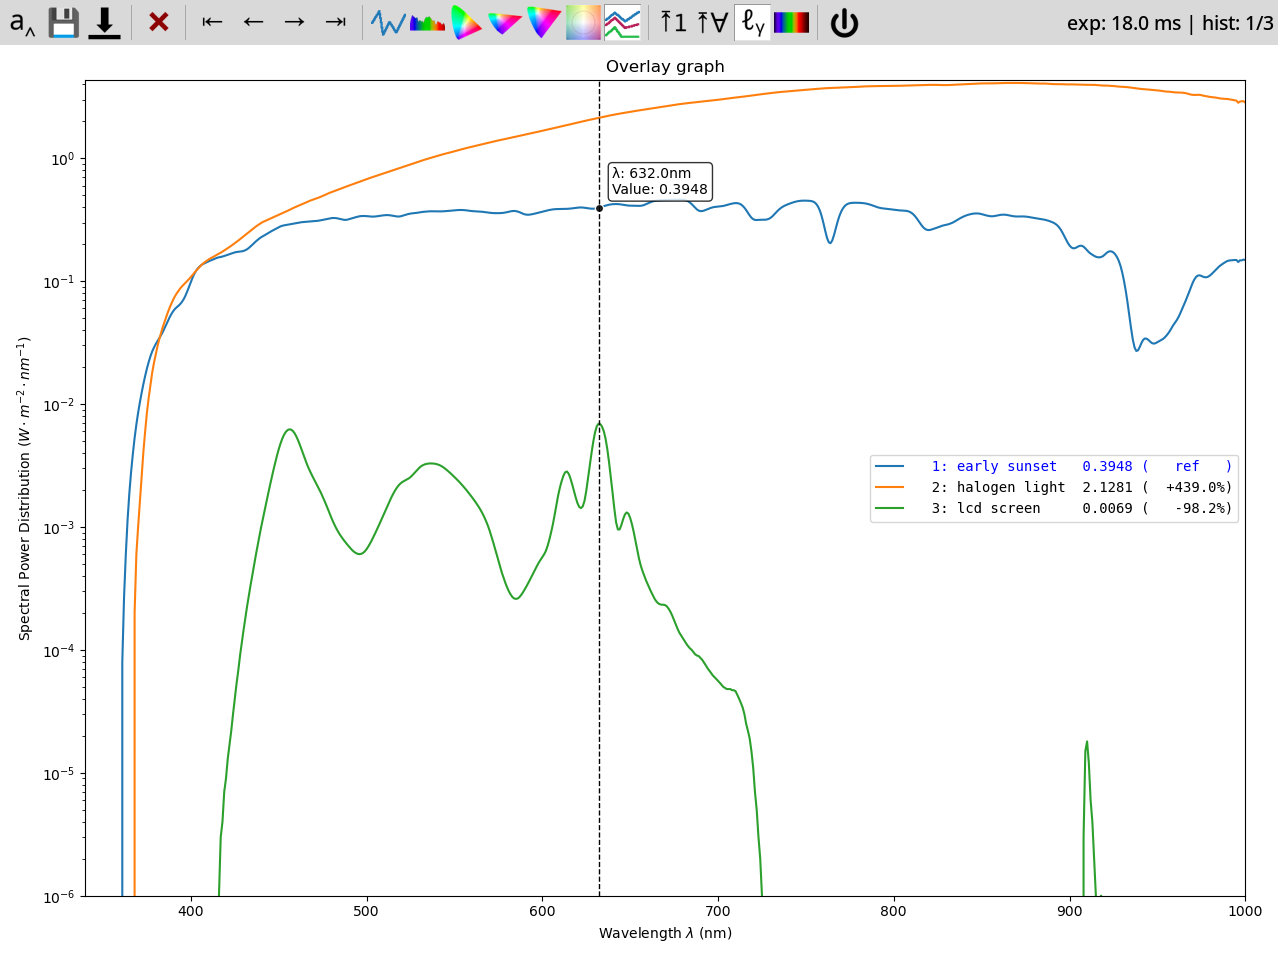
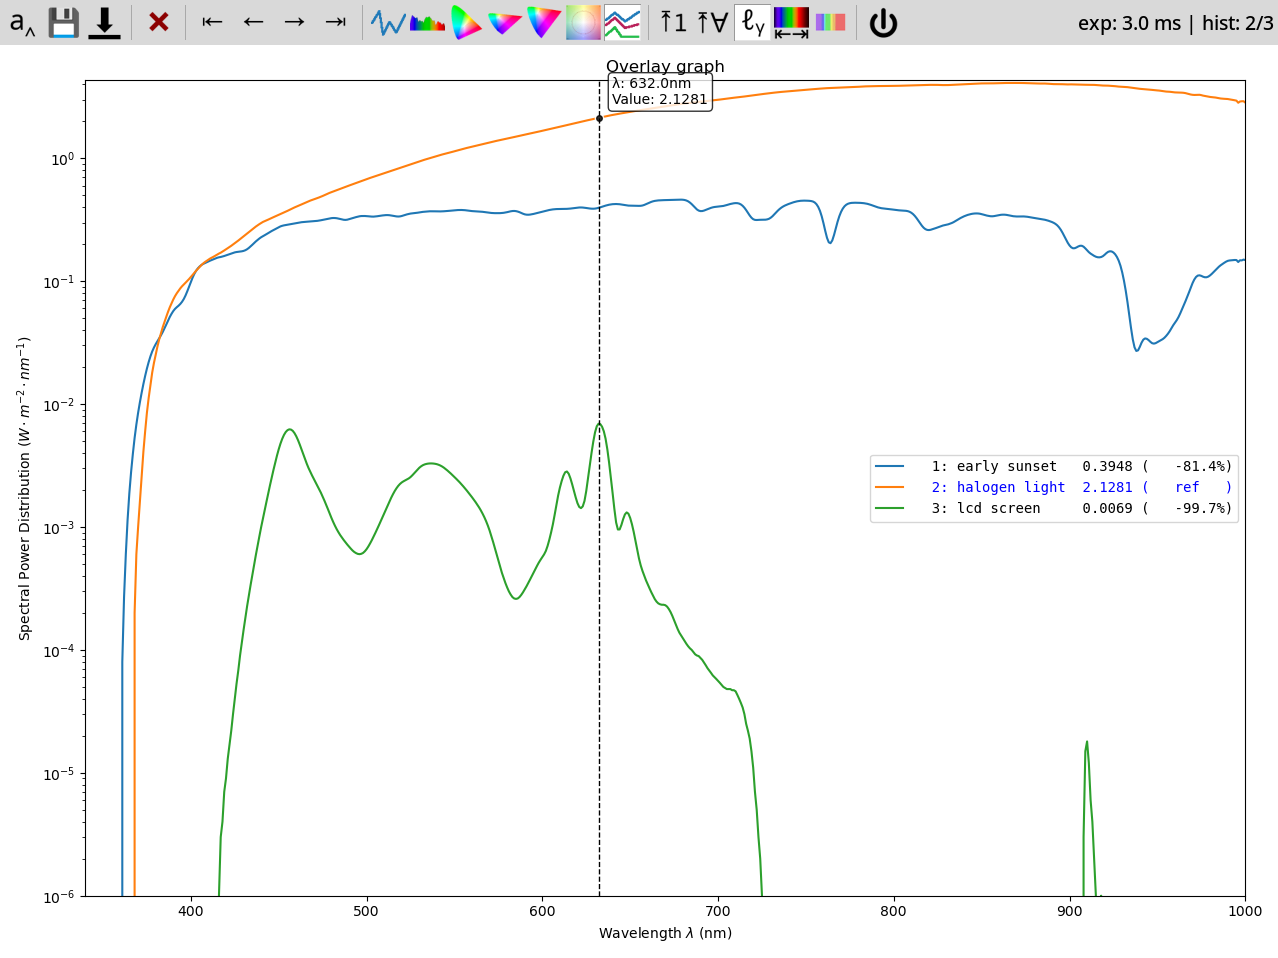
Add spectrum + photosensitivities overlay
Makes for a bit faster graph, plus allows you to orient yourself
quickly in the spectrum.

- Photopic = dotted
- Scotopic = dash and dot
- Melanopic = dashed

diff --git a/tobes_ui/plot.py b/tobes_ui/plot.py
@@ -25,6 +25,7 @@ from matplotlib.backend_bases import KeyEvent
 from matplotlib.backend_managers import ToolManager
 from matplotlib.backend_tools import ToolBase
 import matplotlib.text
+import numpy as np
 
 from .cursors import SingleGraphCursor, OverlayGraphCursor
 from .logger import LOGGER
@@ -33,7 +34,7 @@ from .types import GraphType, RefreshType
 from .tools import (
     RefreshTool, OneShotTool, HistoryStartTool, HistoryBackTool, HistoryForwardTool,
     HistoryEndTool, GraphSelectTool, FixYRangeGlobalTool, FixYRangeTool, LogYScaleTool,
-    PowerTool, PlotSaveTool, RawSaveTool, NameTool, RemoveTool, VisXTool)
+    PowerTool, PlotSaveTool, RawSaveTool, NameTool, RemoveTool, VisXTool, SpectrumOverlayTool)
 
 # pylint: disable=broad-exception-caught
 # pylint: disable=too-many-instance-attributes
@@ -110,6 +111,7 @@ class RefreshableSpectralPlot:
         self._fixed_y_global = None
         self._fixed_y = None
         self.vis_x = False
+        self.spectrum_overlay = False
 
         # Load 'em all up
         if initial_data:
@@ -532,6 +534,10 @@ class RefreshableSpectralPlot:
             self._update_cursor_position(self._last_mouse_pos[0], self._last_mouse_pos[1])
             self._cursor.set_visible()
 
+        # Plop on the sensitivities overlay
+        if self.spectrum_overlay:
+            self._setup_spectrum_overlay()
+
     def update_plot(self):
         """Update plot in main thread"""
         try:
@@ -635,6 +641,7 @@ class RefreshableSpectralPlot:
                 ToolDesc('yrange_global_fix', 'axes', FixYRangeGlobalTool),
                 ToolDesc('log_yscale', 'axes', LogYScaleTool),
                 ToolDesc('visx', 'axes', VisXTool),
+                ToolDesc('spec_ovl', 'axes', SpectrumOverlayTool),
 
                 ToolDesc('power', 'power', PowerTool),
             ]
@@ -647,6 +654,47 @@ class RefreshableSpectralPlot:
                 toolbar.add_tool(tool_mgr.get_tool(tool.name), tool.group)
                 if tool.trigger:
                     tool_mgr.toolmanager_connect(f"tool_trigger_{tool.name}", tool.trigger)
+
+    COLOR_RANGES = {
+            # https://en.wikipedia.org/wiki/Visible_spectrum
+            range(380, 450): ('violet', '#7f00ff'),
+            range(450, 485): ('blue', '#0000ff'),
+            range(485, 500): ('cyan', '#00ffff'),
+            range(500, 565): ('green', '#00ff00'),
+            range(565, 590): ('yellow', '#ffff00'),
+            range(590, 625): ('orange', '#ffa500'),
+            range(625, 751): ('red', '#ff0000'), # +1 at the end
+    }
+
+    def _setup_spectrum_overlay(self):
+        """Setup spectrum overlay (colors + photosensitivities)"""
+
+        match self.graph_type:
+            case GraphType.LINE | GraphType.OVERLAY:
+                for rng, (label, color) in self.COLOR_RANGES.items():
+                    self.axes.axvspan(rng.start, rng.stop, color=color, alpha=0.1,
+                                      label=color, lw=None)
+
+                photopic_sd = colour.colorimetry.SDS_LEFS_PHOTOPIC['CIE 1924 Photopic Standard Observer']
+                scotopic_sd = colour.colorimetry.SDS_LEFS_SCOTOPIC['CIE 1951 Scotopic Standard Observer']
+                def melanopic_response(wl):
+                    return np.exp(-0.5 * ((wl - 480) / 40)**2)  # 40nm stddev ~ broad response
+
+                (xmin, xmax) = self.axes.get_xlim()
+                (ymin, ymax) = self.axes.get_ylim()
+                ymax = ymax * 0.999
+                wls = np.arange(xmin, xmax + 1, 1)
+                photopic = np.array([photopic_sd[w] for w in wls])
+                scotopic = np.array([scotopic_sd[w] for w in wls])
+                melanopic = melanopic_response(wls)
+                photopic_norm = (photopic/np.max(photopic)) * (ymax-ymin) + ymin
+                scotopic_norm = (scotopic/np.max(scotopic)) * (ymax-ymin) + ymin
+                melanopic_norm = (melanopic/np.max(melanopic)) * (ymax - ymin) + ymin
+                self.axes.plot(wls, photopic_norm, 'k:', label='photopic', alpha=0.1)
+                self.axes.plot(wls, scotopic_norm, 'k-.', label='scotopic', alpha=0.1)
+                self.axes.plot(wls, melanopic_norm, 'k--', label='melanopic', alpha=0.1)
+            case _:
+                pass
 
     def _setup_cursor(self, legend=None):
         """Setup cursor tracking for easy reading of values on the graph"""

diff --git a/tobes_ui/tools.py b/tobes_ui/tools.py
@@ -368,3 +368,25 @@ class RemoveTool(ToolBase):
 
     def trigger(self, *_args, **_kwargs):
         self.plot.remove_current_data()
+
+
+class SpectrumOverlayTool(ToolToggleBase):
+    """Show spectrum + sensitivities overlay"""
+    description = ('Show spectrum + photosensitivities overlay\n' +
+                   '[only applies to line or overlay graphs]\n(key: |)')
+    default_keymap = ['|']
+
+    def __init__(self, *args, plot, **kwargs):
+        self.plot = plot
+        self.default_toggled = self.plot.log_y_scale
+        script_dir = os.path.dirname(os.path.abspath(__file__))
+        self.image = os.path.join(script_dir, "../icons/spec_ovl")
+        super().__init__(*args, **kwargs)
+
+    def enable(self, event=None):
+        self.plot.spectrum_overlay = True
+        self.plot.dirty = True
+
+    def disable(self, event=None):
+        self.plot.spectrum_overlay = False
+        self.plot.dirty = True

diff --git a/README.md b/README.md
@@ -97,6 +97,7 @@ There are several icons on the toolbar:
 | ![global fix y range](icons/yrange_global_fix.png) | `G` | Only line+spectrum: Fix Y-axis range based on all graphs |
 | ![log y axis](icons/log_yscale.png) | `K` | Only line+overlay: Use logarithmic Y-axis |
 | ![visible spectrum](icons/visx.png) | `Z` | Only line, spectrum, overlay: Limit X axis to visible spectrum (380..750 nm)|
+| ![spectrum overlay](icons/spec_ovl.png) | `|` | Only line, overlay: Show spectrum + photosensitivities overlay |
 | ![power](icons/power.png) | `Esc`, `Ctrl+Q` | Quit the app |
 
 ## Exported data
